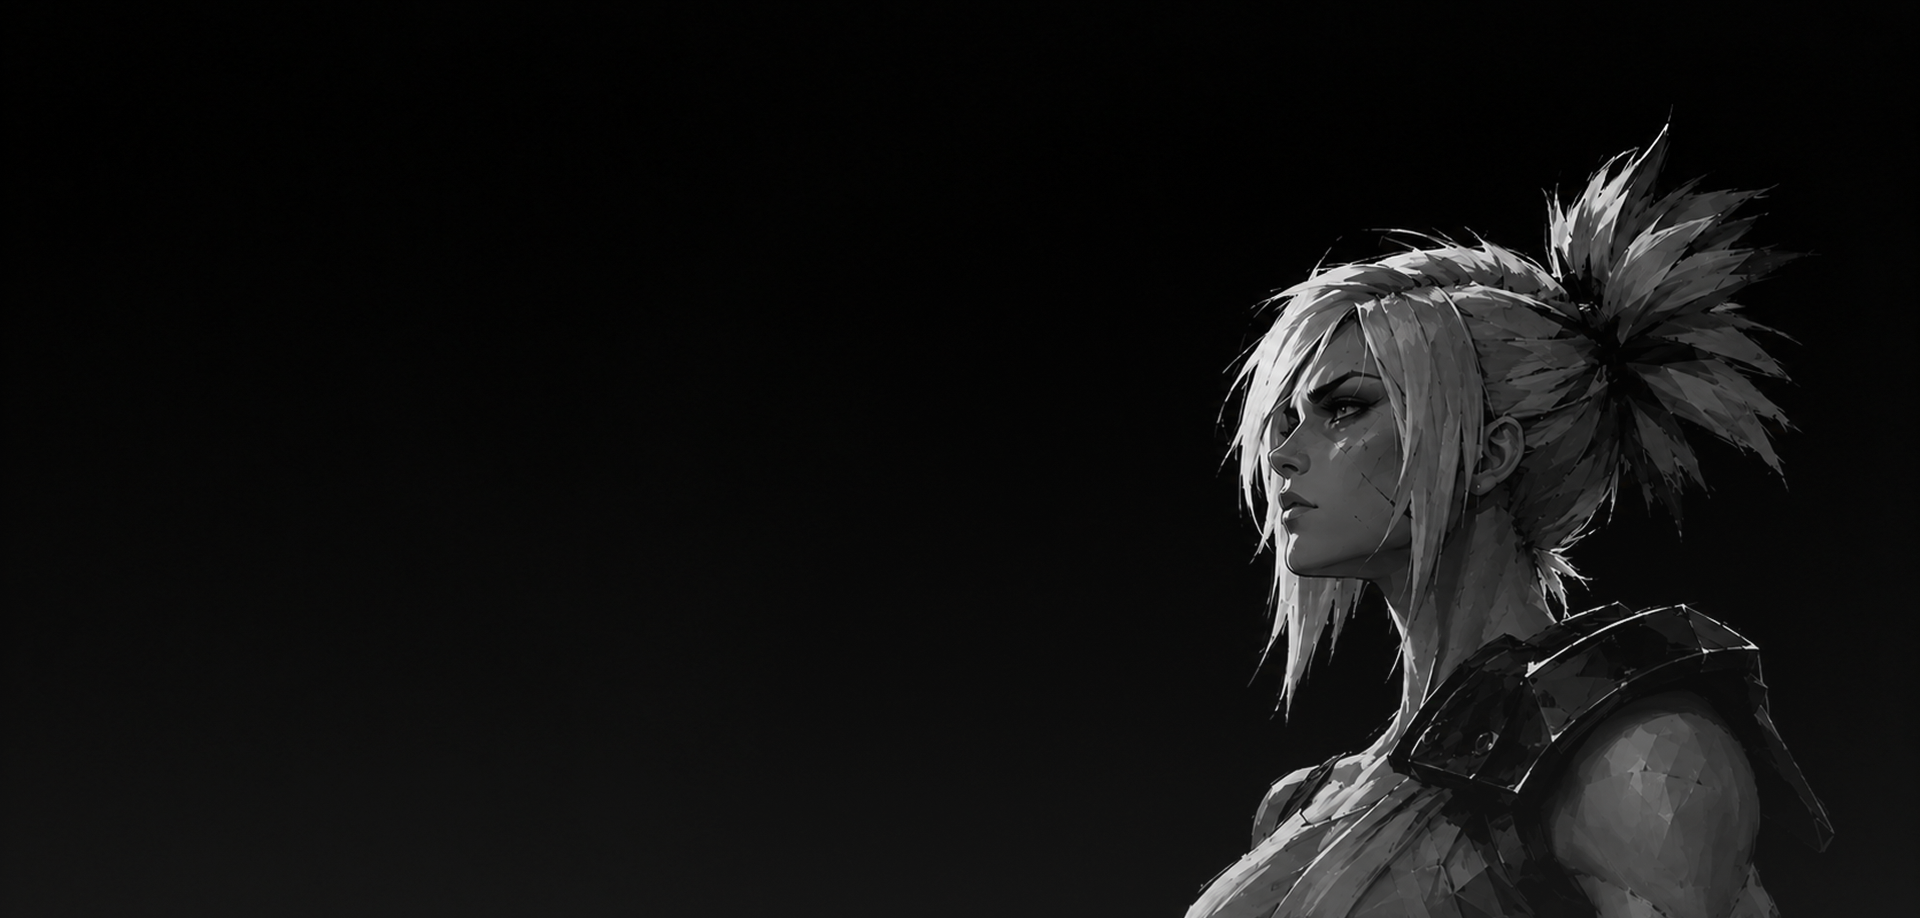
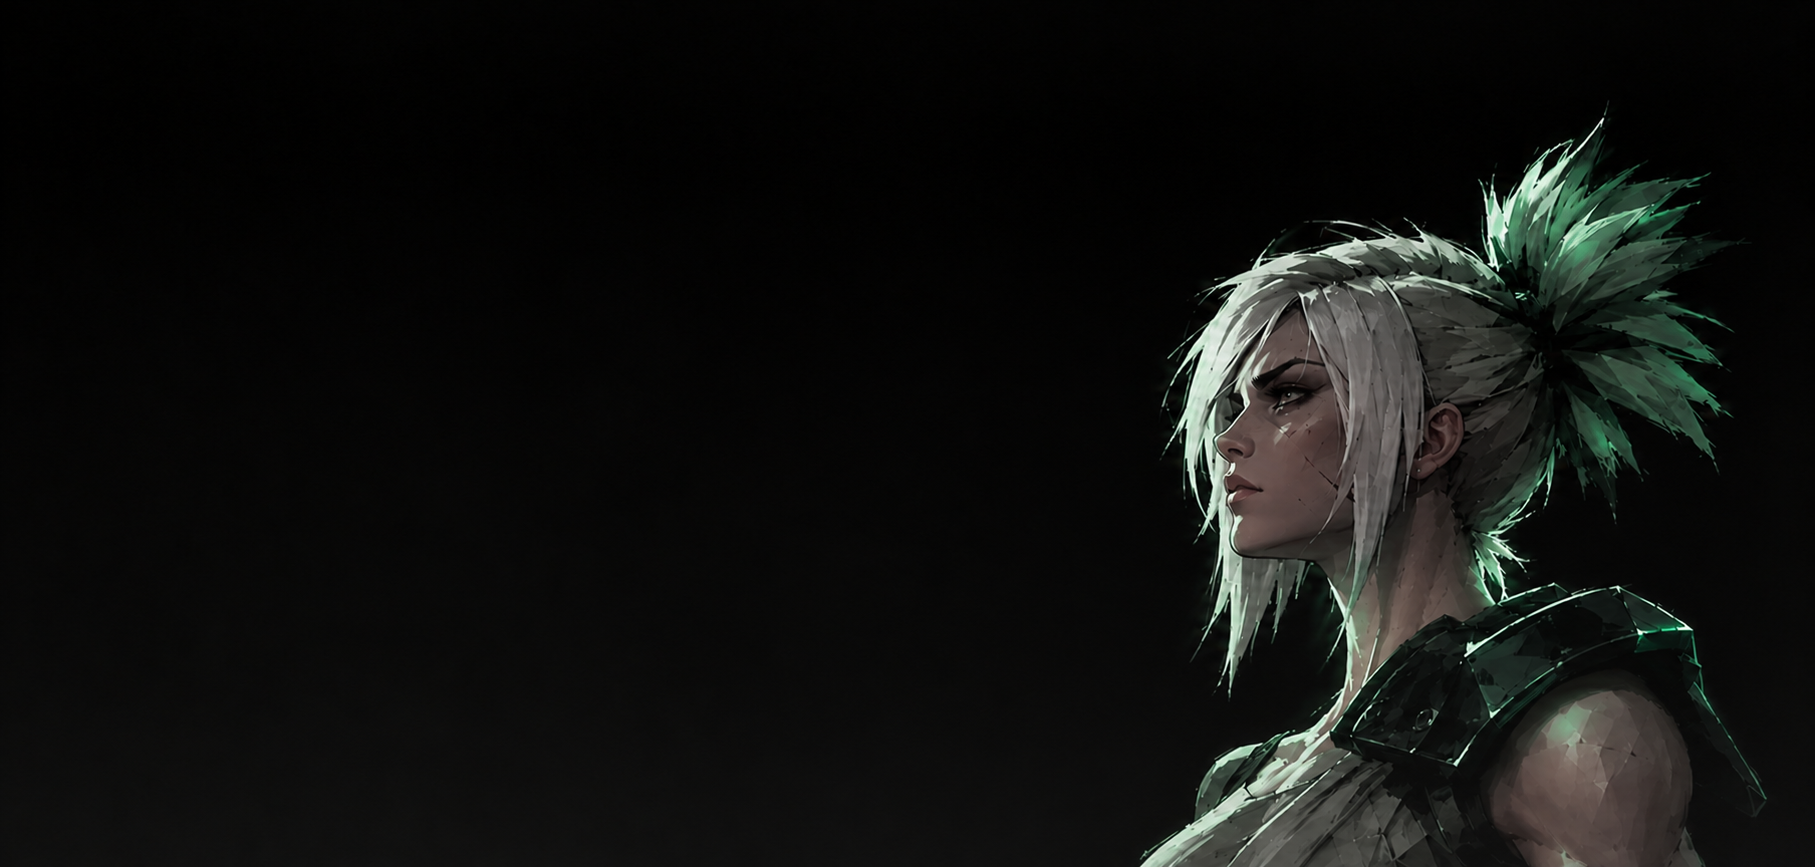
feat: Adiciona texto principal, flores e termina sessão inicial da home

Changed region(s): [[0.6171, 0.1246, 0.9565, 1.0]]

diff --git a/public/css/estilo.css b/public/css/estilo.css
@@ -25,6 +25,7 @@ h1, h2, h3, h4, h5, h6 {
   background-size: cover;
   background-position: center;
   background-repeat: no-repeat;
+  filter: saturate(0.5);
 }
 
 .header-home {
@@ -49,6 +50,7 @@ h1, h2, h3, h4, h5, h6 {
     transform: translateX(-50%);
     width: 160px;
     height: auto;
+    filter: saturate(3.5);
 }
 
 .navegacao-home {
@@ -68,8 +70,38 @@ h1, h2, h3, h4, h5, h6 {
 
 
 .destaque-titulo {
-    color: #F9FFEE;
+    color: #FFFFFF;
     font-family: 'Cormorant Garamond', serif;
     font-size: 28px;
     margin: 0;
+}
+
+.section-inicial h1,p{
+  color: #ffffff;
+  margin-left: 100px;
+}
+
+.section-inicial h1{
+  font-weight: 100;
+  margin-top: 200px;
+  font-size: 50px;
+}
+
+.section-inicial p{
+  margin-top: 50px;
+  font-family: 'DM Sans', sans-serif;
+  font-size: 24px;
+}
+
+.img-flower-1 {
+  position: absolute;
+  left: 15%;
+  top: 572px;
+  width: 300px;
+  opacity: 0.8;
+}
+
+.destaque-challenger{
+  color: #108d35;
+  filter: saturate(0.5);
 }

diff --git a/public/index.html b/public/index.html
@@ -37,6 +37,11 @@
 
             </header>
 
+            <h1>COMO UMA RIVEN <br> <span class="destaque-challenger">CHALLENGER</span> JOGA?</h1>
+
+            <p>Aprenda. Evolua. Domine a Riven.</p>
+
+            <img class="img-flower-1" src="assets/imgs/flower-img-1.png" alt="">
         </div>
 
     </section>
